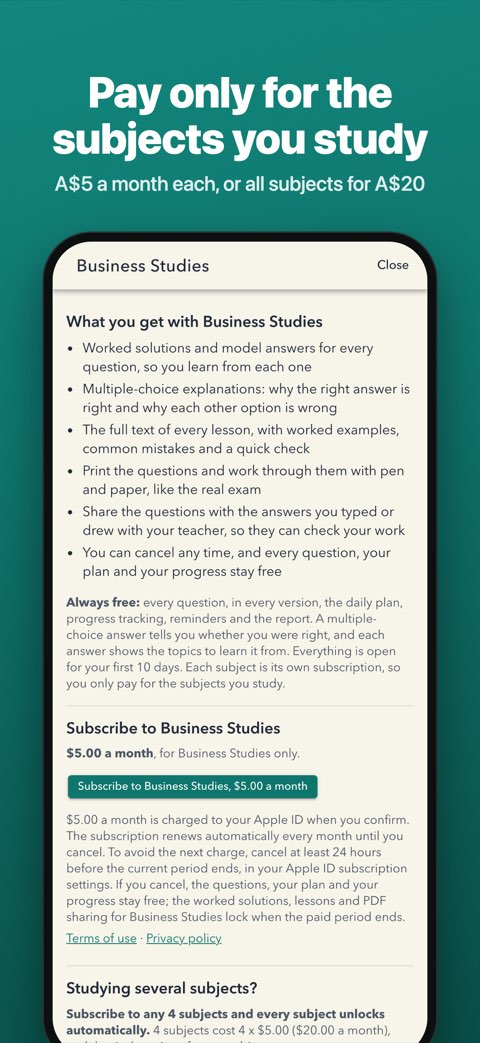
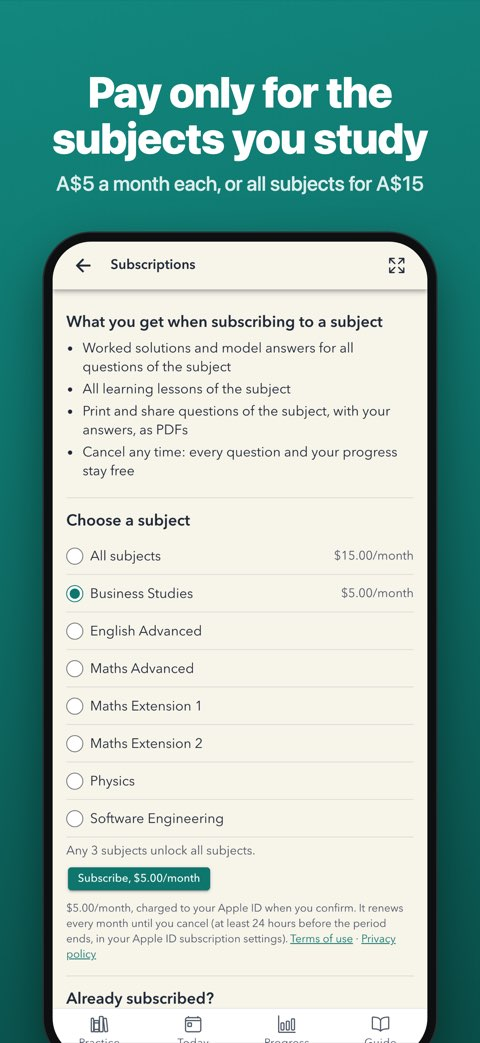
Happy HSC: new screenshots, all subjects A$15 (any 3 subjects)

diff --git a/happyhsc/index.html b/happyhsc/index.html
@@ -16,14 +16,14 @@
 <p>Happy HSC gives Year 11 and Year 12 students a plan for each day, unlimited original practice questions in the style of recent HSC exams, and lessons for every syllabus topic. It works offline, has no ads, and needs no account.</p>
 <!-- slideshow:start -->
 <div id="hsc-shots" class="carousel slide" data-ride="carousel" data-interval="4500">
-<ol class="carousel-indicators"><li data-target="#hsc-shots" data-slide-to="0" class="active"></li><li data-target="#hsc-shots" data-slide-to="1"></li><li data-target="#hsc-shots" data-slide-to="2"></li><li data-target="#hsc-shots" data-slide-to="3"></li><li data-target="#hsc-shots" data-slide-to="4"></li><li data-target="#hsc-shots" data-slide-to="5"></li><li data-target="#hsc-shots" data-slide-to="6"></li><li data-target="#hsc-shots" data-slide-to="7"></li><li data-target="#hsc-shots" data-slide-to="8"></li><li data-target="#hsc-shots" data-slide-to="9"></li><li data-target="#hsc-shots" data-slide-to="10"></li><li data-target="#hsc-shots" data-slide-to="11"></li></ol>
-<div class="carousel-inner"><div class="item active"><img src="screens/01-questions.jpg" alt="Every answer explained. Worked solutions that show why, not just what." width="480" loading="eager"></div><div class="item"><img src="screens/02-written.jpg" alt="Check your written answers. Compare with a sample answer and rate yourself." width="480" loading="lazy"></div><div class="item"><img src="screens/03-print.jpg" alt="Print it, show your teacher. Your own answers go on the page too." width="480" loading="lazy"></div><div class="item"><img src="screens/04-report.jpg" alt="Show how you are going. A progress report PDF for parents and teachers." width="480" loading="lazy"></div><div class="item"><img src="screens/05-lesson.jpg" alt="A lesson for every topic. Clear notes, worked examples and quick checks." width="480" loading="lazy"></div><div class="item"><img src="screens/06-today.jpg" alt="Know what to study today. One clear target for each of your subjects." width="480" loading="lazy"></div><div class="item"><img src="screens/07-practice.jpg" alt="Practise topic by topic. The whole syllabus, with the questions still to solve." width="480" loading="lazy"></div><div class="item"><img src="screens/08-progress.jpg" alt="See if you are on track. Pace against your Trials and HSC exam dates." width="480" loading="lazy"></div><div class="item"><img src="screens/09-exam.jpg" alt="Sit a full mock exam. Exam-style papers for every subject." width="480" loading="lazy"></div><div class="item"><img src="screens/10-guide.jpg" alt="Understand the HSC and ATAR. Short guides and a quiz, right in the app." width="480" loading="lazy"></div><div class="item"><img src="screens/11-saved.jpg" alt="Save questions for later. Come back to the ones you want to retry." width="480" loading="lazy"></div><div class="item"><img src="screens/12-subscription.jpg" alt="Pay only for the subjects you study. A$5 a month each, or all subjects for A$20." width="480" loading="lazy"></div></div>
+<ol class="carousel-indicators"><li data-target="#hsc-shots" data-slide-to="0" class="active"></li><li data-target="#hsc-shots" data-slide-to="1"></li><li data-target="#hsc-shots" data-slide-to="2"></li><li data-target="#hsc-shots" data-slide-to="3"></li><li data-target="#hsc-shots" data-slide-to="4"></li><li data-target="#hsc-shots" data-slide-to="5"></li><li data-target="#hsc-shots" data-slide-to="6"></li><li data-target="#hsc-shots" data-slide-to="7"></li><li data-target="#hsc-shots" data-slide-to="8"></li><li data-target="#hsc-shots" data-slide-to="9"></li><li data-target="#hsc-shots" data-slide-to="10"></li><li data-target="#hsc-shots" data-slide-to="11"></li><li data-target="#hsc-shots" data-slide-to="12"></li></ol>
+<div class="carousel-inner"><div class="item active"><img src="screens/01-questions.jpg" alt="Every answer explained. Worked solutions that show why, not just what." width="480" loading="eager"></div><div class="item"><img src="screens/02-written.jpg" alt="Check your written answers. Compare with a sample answer and rate yourself." width="480" loading="lazy"></div><div class="item"><img src="screens/03-print.jpg" alt="Print it, show your teacher. Your own answers go on the page too." width="480" loading="lazy"></div><div class="item"><img src="screens/04-report.jpg" alt="Show how you are going. A progress report PDF for parents and teachers." width="480" loading="lazy"></div><div class="item"><img src="screens/05-lesson.jpg" alt="A lesson for every topic. Clear notes, worked examples and quick checks." width="480" loading="lazy"></div><div class="item"><img src="screens/06-today.jpg" alt="Know what to study today. One clear target for each of your subjects." width="480" loading="lazy"></div><div class="item"><img src="screens/07-practice.jpg" alt="Practise topic by topic. The whole syllabus, with the questions still to solve." width="480" loading="lazy"></div><div class="item"><img src="screens/08-progress.jpg" alt="See if you are on track. Pace against your Trials and HSC exam dates." width="480" loading="lazy"></div><div class="item"><img src="screens/09-exam.jpg" alt="Sit a full mock exam. Exam-style papers for every subject." width="480" loading="lazy"></div><div class="item"><img src="screens/10-guide.jpg" alt="Understand the HSC and ATAR. Short guides and a quiz, right in the app." width="480" loading="lazy"></div><div class="item"><img src="screens/11-saved.jpg" alt="Save questions for later. Come back to the ones you want to retry." width="480" loading="lazy"></div><div class="item"><img src="screens/12-subscription.jpg" alt="Pay only for the subjects you study. A$5 a month each, or all subjects for A$15." width="480" loading="lazy"></div><div class="item"><img src="screens/13-settings.jpg" alt="Set it up your way. Your HSC year, subjects and reminders." width="480" loading="lazy"></div></div>
 <a class="carousel-control left" href="#hsc-shots" data-slide="prev" aria-label="Previous screenshot">&lsaquo;</a>
 <a class="carousel-control right" href="#hsc-shots" data-slide="next" aria-label="Next screenshot">&rsaquo;</a>
 </div>
 <!-- slideshow:end -->
 <h2>What costs money</h2>
-<p>Every question is free. For your first 10 days everything is open. After that, the full worked solutions, the lesson text and printing or sharing PDFs of the questions need a subscription for that subject: A$5 a month for each subject, or A$20 a month for all subjects. Subscribe to any 4 subjects and every subject unlocks automatically. The store shows the exact price for your country, and you can cancel at any time. The full terms are on the <a href="terms/">Terms of use</a> page.</p>
+<p>Every question is free. For your first 10 days everything is open. After that, the full worked solutions, the lesson text and printing or sharing PDFs of the questions need a subscription for that subject: A$5 a month for each subject, or A$15 a month for all subjects. Subscribe to any 3 subjects and every subject unlocks automatically. The store shows the exact price for your country, and you can cancel at any time. The full terms are on the <a href="terms/">Terms of use</a> page.</p>
 <h2>Support</h2>
 <p>Questions, problems or ideas: <a href="mailto:toxgamgroup@gmail.com">toxgamgroup@gmail.com</a>. To cancel or manage your subscription, use your Apple ID subscriptions (iPhone) or Google Play subscriptions (Android); see the <a href="terms/">Terms of use</a> for the steps.</p>
 <h2>Not affiliated</h2>

diff --git a/happyhsc/terms/index.html b/happyhsc/terms/index.html
@@ -20,12 +20,12 @@
 <ul>
 <li><strong>Always free:</strong> every practice question, the daily plan, progress tracking, reminders and the HSC and ATAR guide. For a multiple-choice question, the app tells you whether your answer was right.</li>
 <li><strong>First 10 days:</strong> everything in the app is open for 10 days after you first open it, with no payment details needed.</li>
-<li><strong>Subject subscriptions:</strong> after that, for each subject, the full worked solutions and model answers, the text of its lessons, and printing or sharing PDFs of its questions need that subject's subscription. Each subject is its own subscription, so you only pay for the subjects you study. An all-subjects subscription covers every subject, and subscribing to any four subjects unlocks every subject automatically.</li>
+<li><strong>Subject subscriptions:</strong> after that, for each subject, the full worked solutions and model answers, the text of its lessons, and printing or sharing PDFs of its questions need that subject's subscription. Each subject is its own subscription, so you only pay for the subjects you study. An all-subjects subscription covers every subject, and subscribing to any three subjects unlocks every subject automatically.</li>
 </ul>
 
 <h2>The subscription</h2>
 <ul>
-<li><strong>Price:</strong> A$5 per month for each subject, or A$20 per month for all subjects, shown in the app in your local currency by the App Store or Google Play before you buy. Prices may change; the store will tell you and ask for your agreement where it requires.</li>
+<li><strong>Price:</strong> A$5 per month for each subject, or A$15 per month for all subjects, shown in the app in your local currency by the App Store or Google Play before you buy. Prices may change; the store will tell you and ask for your agreement where it requires.</li>
 <li><strong>No free trial:</strong> the subscriptions have no trial period of their own. The first 10 days of using the app, described above, are the only free period.</li>
 <li><strong>Renewal:</strong> the subscription renews automatically every month until you cancel. Payment is taken from your Apple ID or Google Play account at confirmation of purchase, and again at each renewal, up to 24 hours before the current period ends.</li>
 <li><strong>Cancelling:</strong> you can cancel at any time. It stays active until the end of the period you have paid for. On iPhone: Settings, tap your name, Subscriptions, then the Happy HSC subject, Cancel. On Android: Google Play, tap your profile, Payments and subscriptions, Subscriptions, then the Happy HSC subject, Cancel subscription. Deleting the app does not cancel the subscription.</li>
